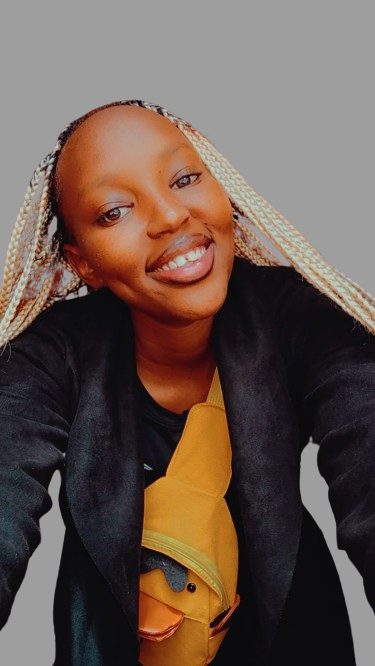
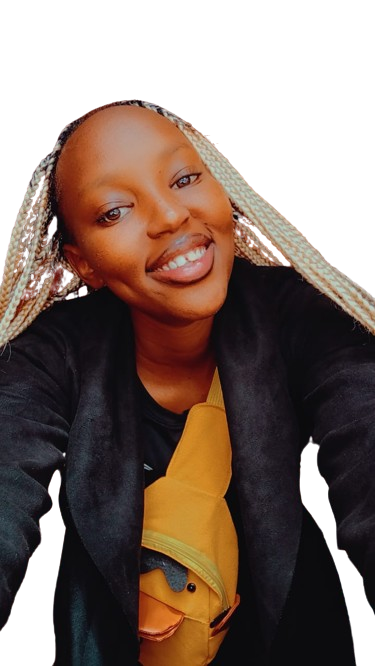
UI

diff --git a/Portfolio/src/Components/About.scss b/Portfolio/src/Components/About.scss
@@ -1,13 +1,38 @@
 .main{
     display: flex;
-    flex-direction: column;
     align-items: center;
     justify-content: center;
-    gap: 30px;
+    .body{
+        height: 70vh;
+        display: flex;
+        padding: 20px;
+        .pic{
+            img{
+                width: 400px;
+                height: 550px;
+            }
+        }
+    }
+    .information{
+        display: flex;
+        flex-direction: column;
+        justify-content: center;
+        align-items: center;
+        font-size: 20px;
+        gap: 30px;
+    }
     .about{
+        gap: 10px;
+        display: flex;
+        flex-direction: column;
         text-align: center;
-        padding: 10px;
         font-family:'Segoe UI', Tahoma, Geneva, Verdana, sans-serif;
+        h2{
+            font-size: 30px;
+        }
+        p{
+            color: rgb(121, 110, 110);
+        }
     }
     .details{
         // border: 2px solid red;
@@ -17,5 +42,14 @@
         gap: 10px;
         font-size: 18px;
         font-family: 'Segoe UI', Tahoma, Geneva, Verdana, sans-serif;
+    }
+
+    .information2{
+        display: flex;
+        gap: 10px;
+        align-items: center;
+        p{
+            color: rgb(121, 110, 110);
+        }
     }
 }

diff --git a/Portfolio/src/Components/About.jsx b/Portfolio/src/Components/About.jsx
@@ -1,4 +1,7 @@
 import './About.scss'
+import Profile from '../assets/Birgen.png'
+import Button from './Button'
+import Navbar from './Navbar'
 
 const About=()=> {
   const Details=[
@@ -29,18 +32,27 @@ const About=()=> {
   ]
  return (
     <div className='main'>
+      <div className="body">
+      <div className="pic">
+        <img src={Profile} alt="noPic" srcset="" />
+      </div>
+      <div className="information">
       <div className="about">
         <h2>About Me</h2>
         <p>Inspired by the fertile plains of Sharon, I bring a blend of natural beauty and richness to every project I undertake.
            Discover the depth and creativity behind my work.</p>
-      </div>
+           </div>
       <div className="details">
         {Details.map((Detail, index) => (
-          <div className="information" key={index}>
-            <p>{Detail.Title} {Detail.Value}</p>
+          <div className="information2" key={index}>
+            <h4>{Detail.Title} </h4>
+            <p>{Detail.Value}</p>
           </div>
         ))}
-      </div>
+        </div>
+        <Button msg='Download Cv' />
+        </div>
+        </div>
     </div>
   )
 }

diff --git a/Portfolio/src/Components/Home.scss b/Portfolio/src/Components/Home.scss
@@ -3,16 +3,18 @@
     display: flex;
     align-items: center;
     justify-content: space-between;
-    width: 70vw;
     gap: 20px;
     border-radius: 20px;
-    box-shadow: 10px 10px 10px 0 white;
+    box-shadow: 10px 10px 10px 0 rgba(255, 255, 255, 0.301);
     .mainLeft{
         display: flex;
         flex-direction: column;
         gap: 30px;
         padding: 20px;
         border-radius: 10px;
+        h3{
+            color: #FEB949;
+        }
     }
     p{
         font-size: 25px;
@@ -23,6 +25,7 @@
     }
     h2{
         font-size: 30px;
+        color: #FEB949;
     }
     .buttons{
         display: flex;
@@ -45,4 +48,7 @@
     border: none;
     font-weight: bold;
     cursor: pointer;
+}
+button :hover{
+    color: #FEB949;
 }

diff --git a/Portfolio/src/Components/Navbar.jsx b/Portfolio/src/Components/Navbar.jsx
@@ -1,11 +1,12 @@
 import '../Components/Navbar.scss'
 import MenuItems from './MenuItems'
+import Birgen from '../assets/LogoB.png'
 
 function Navbar() {
   return (
     <div className='navbar'>
       <div className="name">
-        <h1>BIRGEN</h1>
+        <img className='photo' src={Birgen} alt="" srcset="" />
       </div>
 
       <div className="menuitems">

diff --git a/Portfolio/src/Components/MenuItems.jsx b/Portfolio/src/Components/MenuItems.jsx
@@ -11,10 +11,10 @@ const MenuItems=()=> {
             Title : 'About',
             path: './about'
         },
-        {
-            Title : 'Resume',
-            path: './resume'
-        },
+        // {
+        //     Title : 'Resume',
+        //     path: './resume'
+        // },
         {
             Title : 'Skills',
             path: './skills'

diff --git a/Portfolio/src/Components/Button.jsx b/Portfolio/src/Components/Button.jsx
@@ -3,7 +3,7 @@ import './Button.scss'
 function Button({msg}) {
   return (
     <div className='button'>
-       <span>{msg}</span>
+       <span className='msg'>{msg}</span>
     </div>
   )
 }

diff --git a/Portfolio/src/Components/Button.scss b/Portfolio/src/Components/Button.scss
@@ -1,5 +1,9 @@
 .button{
     border: 2px solid #d6d6d6;
     padding: 10px;
-    border-radius: 10px;
+    border-radius: 20px;
+    cursor: pointer;
+}
+.button :hover{
+    color: #FEB949; 
 }

diff --git a/Portfolio/src/Components/Navbar.scss b/Portfolio/src/Components/Navbar.scss
@@ -3,4 +3,9 @@
     justify-content: space-between;
     align-items: center;
     padding: 10px;
+    font-size: 18px;
+    .photo{
+        width: 100px;
+        padding-left: 10px;
+    }
 }

diff --git a/Portfolio/src/Components/MenuItems.scss b/Portfolio/src/Components/MenuItems.scss
@@ -4,8 +4,4 @@
     .menusitems a {
         text-decoration: none; 
       }
-      
-      .menusitems .listitems {
-        color: black;
-      }
 }

diff --git a/Portfolio/src/index.css b/Portfolio/src/index.css
@@ -1,5 +1,6 @@
 *{
   margin: 0;
   padding: 0;
-  background-color: #9E9E9E;
+  background-color: black;
+  color: white;
 }
